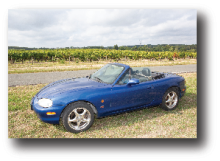
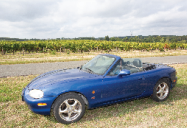
added assets

diff --git a/index.html b/index.html
@@ -9,7 +9,7 @@
         <meta name="viewport" content="width=device-width, initial-scale=1">
         <link rel="stylesheet" href="style.css">
     </head>
-    <body>
+    <body class="background">
         <img id="cursor" src="assets/mouse.png" alt="">
         <div class="container-upper">
             <div class="header"></div>
@@ -47,7 +47,7 @@
         </div>
         <div class="testimonial" id="testimonials">
             <div class="pic">
-                <img src="assets/02_Labcoat_Pixelated.png" alt="Lab Coat">
+                <img src="assets/Asset 2.png" alt="Lab Coat">
             </div>
             <div class="quote">
                 <img src="assets/05_Quote_a.png" alt="Quote A">
@@ -59,13 +59,13 @@
                 <img src="assets/06_Quote_b.png" alt="Quote B">
                 <!-- <p><em>"I feel totally healed" – Alfonso Valentin Salto Sanchez</em></p> -->
             </div>
-            <div class="pic">
+            <div class="pic pic-shadow">
                 <img src="assets/03_Car.png" alt="Car">
             </div>
         </div>
         <div class="testimonial">
-            <div class="pic">
-                <img src="assets/04_Minivan.png" alt="Minivan">
+            <div class="pic pic-shadow">
+                <img src="assets/Minivan_option2.png" alt="Minivan">
             </div>
             <div class="quote">
                 <img src="assets/07_Quote_c.png" alt="Quote C">

diff --git a/style.css b/style.css
@@ -178,6 +178,13 @@ h3 {
     position: relative;
     left: 50%;
     transform: translateX(-50%);
+
+}
+
+.pic-shadow img {
+    -webkit-box-shadow: 10px 10px 21px 0px rgba(0,0,0,0.75);
+    -moz-box-shadow: 10px 10px 21px 0px rgba(0,0,0,0.75);
+    box-shadow: 10px 10px 21px 0px rgba(0,0,0,0.75);
 }
 
 .transparency {
